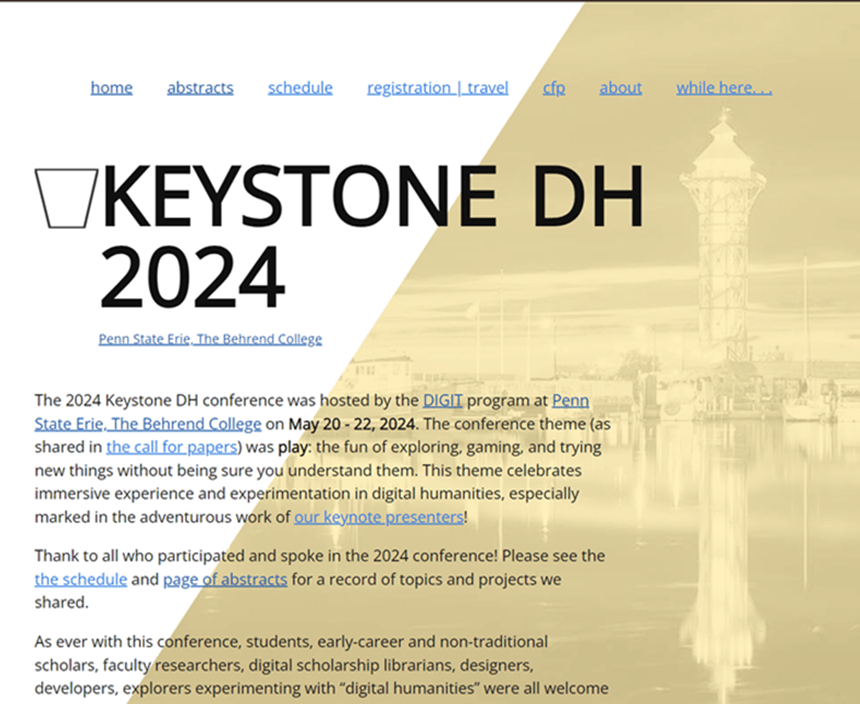
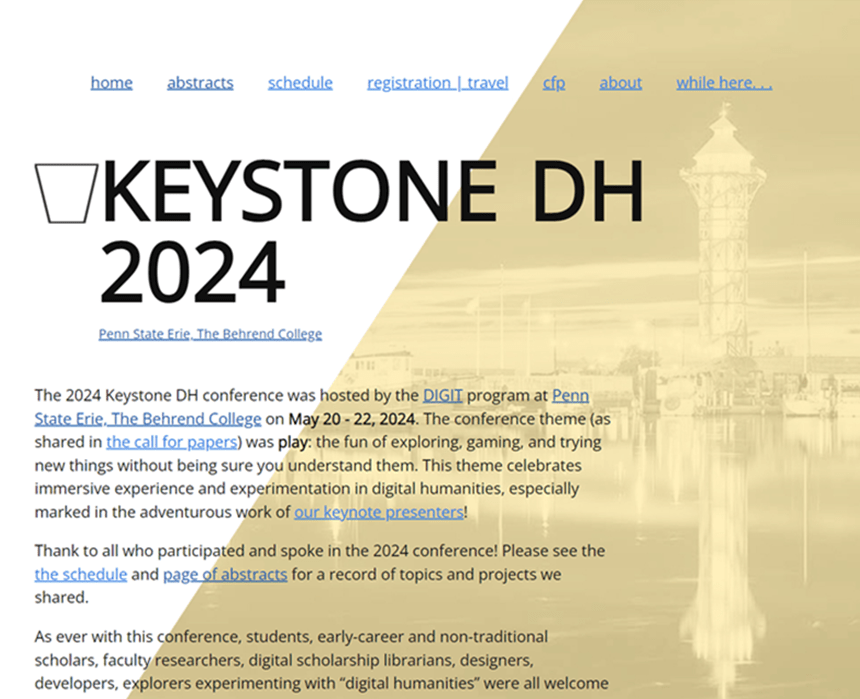
fixing JS mobile jitter, added 2 more projects

diff --git a/docs/projects.html b/docs/projects.html
@@ -31,10 +31,25 @@
         <div id="projectsPage" class="homeBody">
             <h1>Projects</h1>
             <div class="proj">
-            <img id="faceimgProj" src="imgs/pfp.png" alt="Profile image of Savannah Ricks with some cool editing skillssss"/>
+            <img id="faceimgProj" src="imgs/pfp-min.png" alt="Profile image of Savannah Ricks with some cool editing skillssss"/>
             <h2>My Website<span>Oct. '23 - Today</span></h2>
             <p>This website was originally created to act as a sort of share point for all my public projects, now I’ve made it more personal with things about me! Since the initial creation of the site, I haven’t updated much, but I have many project ideas I plan on doing (eventually LOL).</p>
         </div>
+            <div class="proj">
+                <h2><a href="https://digit-psb.github.io/DIGIT/index.html" target="_blank">WebOps Team Project - Revising the DIGIT Website</a><span>May '24 - Aug. '24</span></h2>
+                <img src="imgs/DIGITSite-min.png"/>
+                <p>I was the team lead of three for this website’s redesign over summer break. The Digital Media, Arts and Technology (DIGIT) website needed new content from the lack of updates the previous years and a fresher look. I wireframed and delegated tasks to the rest of the team while also learning JavaScript for the first time. By the time the team was ready to move on from the DIGIT website, I came in to add flexibility to the entire site for mobile use and fixed some JavaScript bugs. I also added my own JavaScript hover effect to the projects section and cleaned up any excess CSS and JavaScript.</br>
+
+                    Something that I should have considered before it was too late was load times.  One of my teammates created an awesome video that featured a collage of DIGIT student works. The video was going to replace the existing background video on the home page. By the time it was completed, uploaded and published, and realize how long the load time was, it was nearing the end of the summer. My teammate had to quickly size down the resolution of their video and create a second version for mobile users. Even still, the home page is shown completely white for a bit before the video plays. So yeah, at least I’ve discovered the “Network” tab in Chromes Inspector tools XD.
+                </p>
+            </div>
+            <div class="proj">
+                <h2><a href="https://keystonedh.network/2024/" target="_blank">The Keystone Digital Humanities 2024 Conference Website</a><span>Jan. '24 - May 24'</span></h2>
+                <img src="imgs/keystone-min.png"/>
+                <p>The Keystone Digital Humanities 2024 website is a hub of information for that year’s upcoming conference. The Keystone DH organization hosts an annual conference when Behrend offered to host it in May of 2024. In December 2023, my professor offered me the opportunity to be the main student research assistant to help her with building the website, manage other student assistants, and plan the conference itself.</br>
+                    This website was the first project I’ve used 11ty on. 11ty’s learning curve was not terrible, but I wish I would have done more with it. During this time of web development, I was also attending a Designing for the Web course, that course made me realize the importance of wireframing. Unfortunately, I did not make a wireframe for this site so there was not much brainstorming here design-wise.
+                </p>
+            </div>
             <div class="proj">
                 <h2><a href="https://fkb5105.github.io/InsuranceProject-DIGIT400/" target="_blank">Insurance Mid-Semester Project</a><span>Aug. '23 - Dec. 23</span></h2>
                 <img src="imgs/inscurancePic-min.png"/>

diff --git a/docs/script.js b/docs/script.js
@@ -52,33 +52,43 @@ function Menubar() {
 
 
 document.addEventListener("DOMContentLoaded", function () {
+    const isHoverableDevice = window.matchMedia('(hover: hover) and (pointer: fine)');
+    console.log(isHoverableDevice);
     let scrollTimeout;
     let prevScrollPos = window.scrollY; //positionY before scroll
-    console.log(`Before: ${prevScrollPos}`);
-
+    // console.log(`Before: ${prevScrollPos}`);
     const menu = document.getElementById("navCont");
-    window.addEventListener("scroll", function () {
-        clearTimeout(scrollTimeout);
-        scrollTimeout = setTimeout(function () {
-            const currentScrollPos = window.scrollY;//positionY after scroll
-            console.log(`After: ${currentScrollPos}`);
 
-            if (currentScrollPos > prevScrollPos) {
-                menu.style.transform = "translateY(-100%)";//retract
-            } else {
-                menu.style.transform = "translateY(0)";//stay
-            }
+    if(isHoverableDevice.matches === false) {
+        menu.classList.add("stick");
+        menu.style.padding = "0";
 
-            if (currentScrollPos > 0) {
-                menu.classList.add("scrolled");
-            } else {
-                menu.classList.remove("scrolled");
-            }
-            prevScrollPos = currentScrollPos;
+    }
+    else{
 
-        }, 15);
+        window.addEventListener("scroll", function () {
+            clearTimeout(scrollTimeout);
+            scrollTimeout = setTimeout(function () {
+                const currentScrollPos = window.scrollY;//positionY after scroll
+                console.log(`After: ${currentScrollPos}`);
 
-    });
+                if (currentScrollPos > prevScrollPos) {
+                    menu.style.transform = "translateY(-100%)";//retract
+                } else {
+                    menu.style.transform = "translateY(0)";//stay
+                }
+
+                if (currentScrollPos > 0) {
+                    menu.classList.add("scrolled");
+                } else {
+                    menu.classList.remove("scrolled");
+                }
+                prevScrollPos = currentScrollPos;
+
+            }, 15);
+
+        });
+    }
 
     let mybutton = document.getElementById("navCont");
     // window.onscroll = function () {

diff --git a/docs/style.css b/docs/style.css
@@ -121,6 +121,10 @@ h2 span {
     transition: all ease 0.5s;
 
 }
+.stick {
+    background: rgba(230, 204, 255, 0.5);
+    /*padding: 0;*/
+}
 #icon {
     display: none;
 }
@@ -212,16 +216,26 @@ p {
  }
 iframe{
     scrollbar-color:transparent transparent;
+    margin: 0;
+
+}
+#frame {
+    border: 2px solid #A36BD8;
+    width: fit-content;
+    margin: 0 auto;
 }
 #iframeCont{
     display: block;
     margin: 0 auto;
 }
-#notesIFRAME {
+#frame #notesIFRAME {
     width: 500px;
     height: 200vh;
     display:block;
-    margin: 4rem auto;
+    /*margin: 4rem auto;*/
+}
+#notesPage #frame {
+
 }
 .proj {
     padding: 2rem;
@@ -235,7 +249,7 @@ iframe{
     margin: 0;
 }
 .proj p {
-    text-align: justify;
+    text-align: left;
 }
 .proj a{
     text-decoration: none;
@@ -246,15 +260,6 @@ iframe{
     text-decoration: underline;
     /*transition: all ease 0.5s;*/
 }
-
-.proj img {
-/*     border-radius: 10px; */
-/*     width: 50%; */
-/*     float: right; */
-/*     margin-left: 1rem; */
-/*     height: auto;  */
-    /*aspect-ratio: 1; */
-}
 .projFlex{
     display: flex;
     flex-direction: row;
@@ -262,16 +267,6 @@ iframe{
 .projFlex *{
     width: 50%;
     height: fit-content;
-}
-#faceimgProj{ /*inactive while experimenting*/
-/*     width: 50%;
-    /*height: auto;*/
-/*     max-width: 330px; */
-/*     border-radius: 50%; */
-/*     shape-outside: circle(40% at 50% 50%); */
-/*     clip-path: circle(50% at 50%); */
-/*     margin-left: 4rem; */
-/*     aspect-ratio: 1; */
 }
 @media screen and (min-width: 425px){
     #faceimgProj {
@@ -538,7 +533,7 @@ g:hover .flip {
         width: 100%;
         margin: 0;
     }
-    iframe, #notesIFRAME{
+    iframe, #notesIFRAME, #frame, #frame #notesIFRAME{
         width: 100%;
     }
 }
@@ -594,14 +589,20 @@ g:hover .flip {
     p {
         text-align: justify;
     }
-    iframe, #notesIFRAME {
-        width: 110%;
-    }
     footer {
         padding: 1rem;
     }
 }
-
+@media screen and (max-height: 570px){
+    #navCont > * {
+        font-size: 1.5rem;
+    }
+}
+@media screen and (max-height: 380px){
+    #navCont > * {
+        font-size: 1.3rem;
+    }
+}
 circle {
     transition: all 0.5s ease;
 }

diff --git a/docs/index.html b/docs/index.html
@@ -57,16 +57,9 @@
                     <h2>My Hobbies</h2>
                     <p>When I am not building websites, I am sitting on my couch crocheting! I have been crocheting for five years now and have many projects under my belt. I’ve made afghans, beanies, tops, cat accessories, pillows, and stuffed animals. My favorite projects I’ve completed was a pair or granny square pants! </p>
                     <h2>Recent Notes</h2>
-<!--                    <iframe src="https://twitter.com/RicksSavan21923?ref_src=twsrc%5Etfw"></iframe>-->
-
-<!--                    <iframe loading="lazy" width="100%" height="100%" src="https://syndication.twitter.com/srv/timeline-profile/screen-name/text=RicksSavan21923?frame=false&hideBorder=false&hideFooter=false&hideHeader=false&hideScrollBar=false&origin=http://localhost:63342/CareerPortfolio/docs/index.html&maxHeight=400px&showHeader=true&showReplies=false&transparent=false&theme=light&width=550px" style="height: 100%;" frameborder="0" scrolling="no"></iframe>-->
-
-                    <iframe src='https://www.juicer.io/api/feeds/rickssavan21923/iframe' frameborder='0' width='500' height='500' style='display:block;margin:0 auto;'></iframe>
-
-<!--                    <script type="text/javascript" src="https://www.juicer.io/embed/rickssavan21923/embed-code.js" async defer></script>-->
-
-<!--                    <a class="twitter-timeline" href="https://twitter.com/RicksSavan21923?ref_src=twsrc%5Etfw">Tweets by RicksSavan21923</a> <script async src="https://platform.twitter.com/widgets.js" charset="utf-8"></script>-->
-
+                <div id="frame">
+                    <iframe src='https://www.juicer.io/api/feeds/rickssavan21923/iframe' frameborder='0' width='500' height='500' style='display:block'></iframe>
+                </div>
                     <h2 id="lomainh2">Lo Mein</h2>
                     <img id="lomeinImg" src="imgs/lomein8.2-comp-min.jpg"/>
 <!--                    <div id="loContain">-->

diff --git a/docs/notes.html b/docs/notes.html
@@ -23,9 +23,11 @@
         <section id="home">
             <div id="notesPage" class="homeBody">
                 <h1>Notes</h1>
-                <p>Follow me on Twitter/X! <a></a></p>
-                <p>Follow me on Mastodon too! <a></a></p>
+                <p>Follow me on Twitter/X <a href="https://x.com/Savannah_Ricks2" target="_blank">@SavannahRicks_2</a></p>
+                <p>Follow me on Mastodon too <a href="https://mastodon.social/@SavannahRicks" target="_blank">@SavannahRicks</a></p>
+                <div id="frame">
                 <iframe id="notesIFRAME" src='https://www.juicer.io/api/feeds/rickssavan21923/iframe' frameborder='0'></iframe>
+                </div>
             </div>
             <div>
                 <footer>
